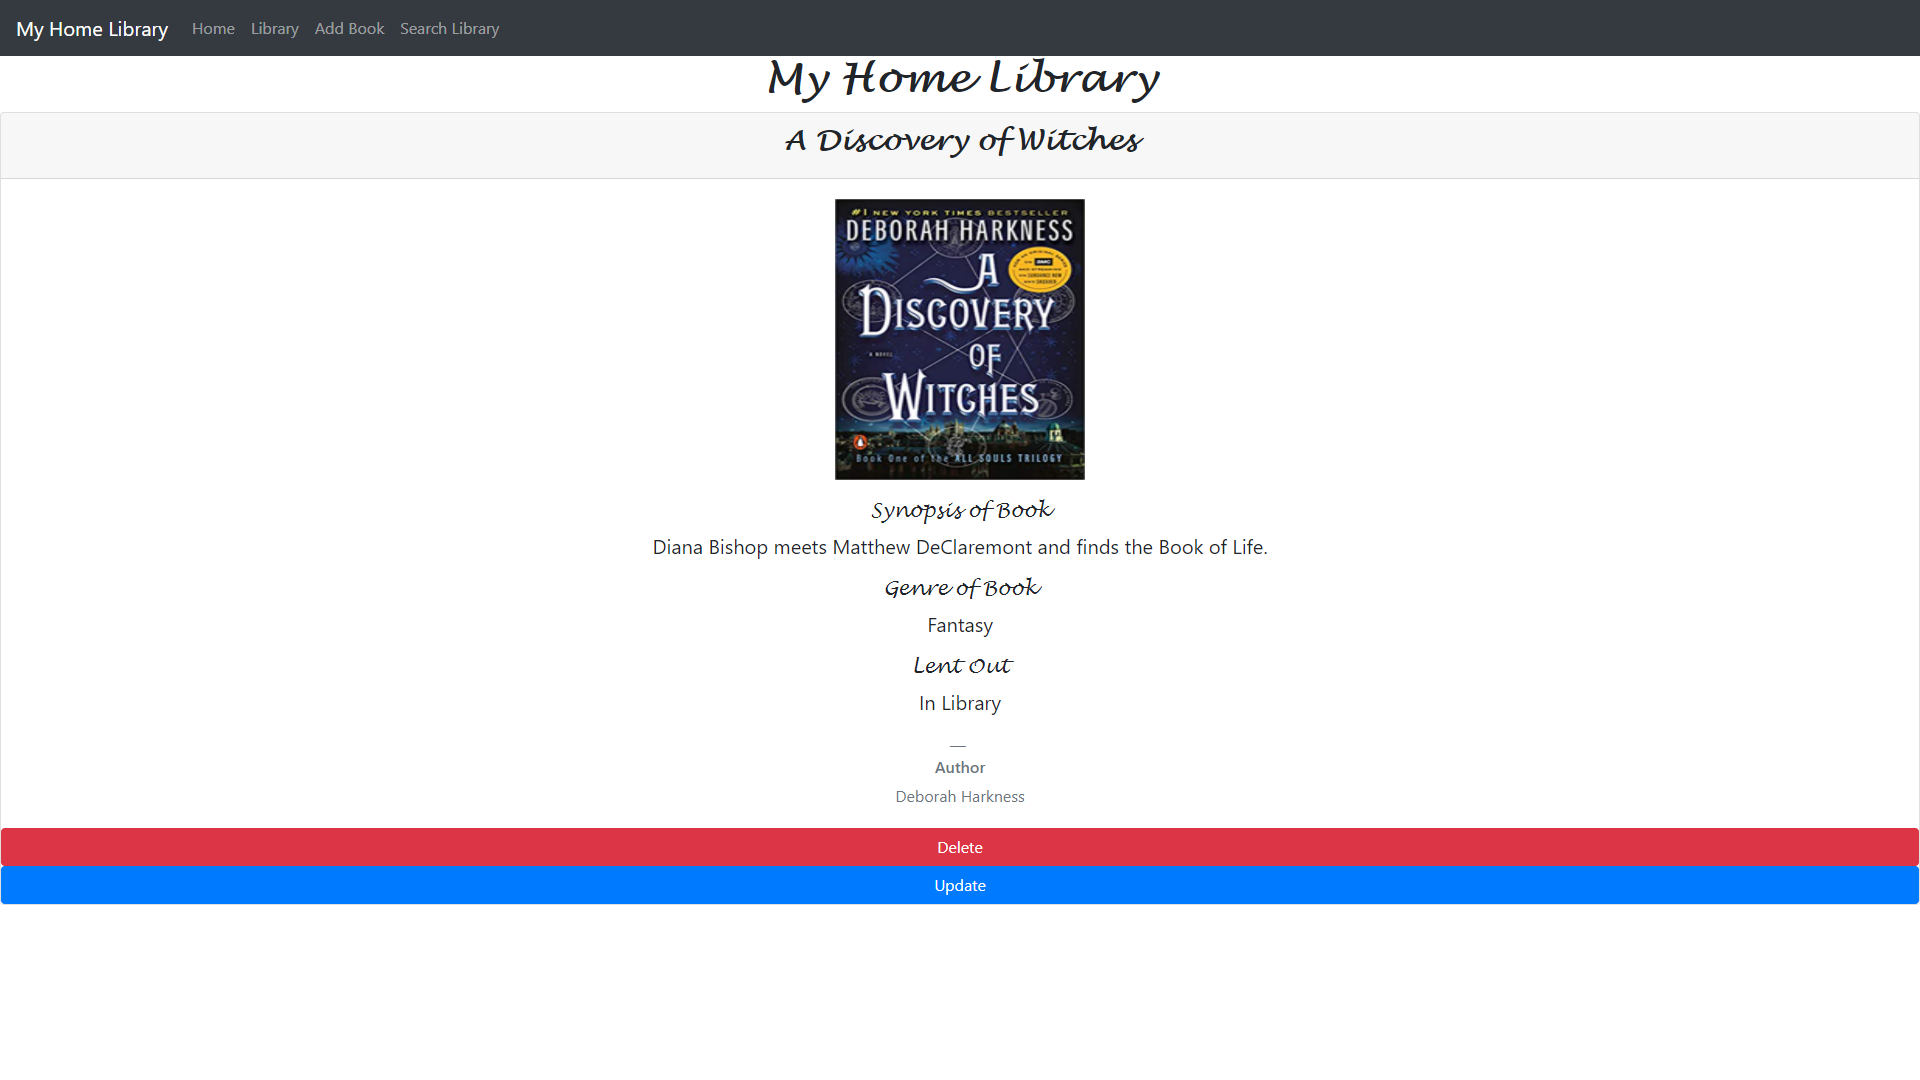
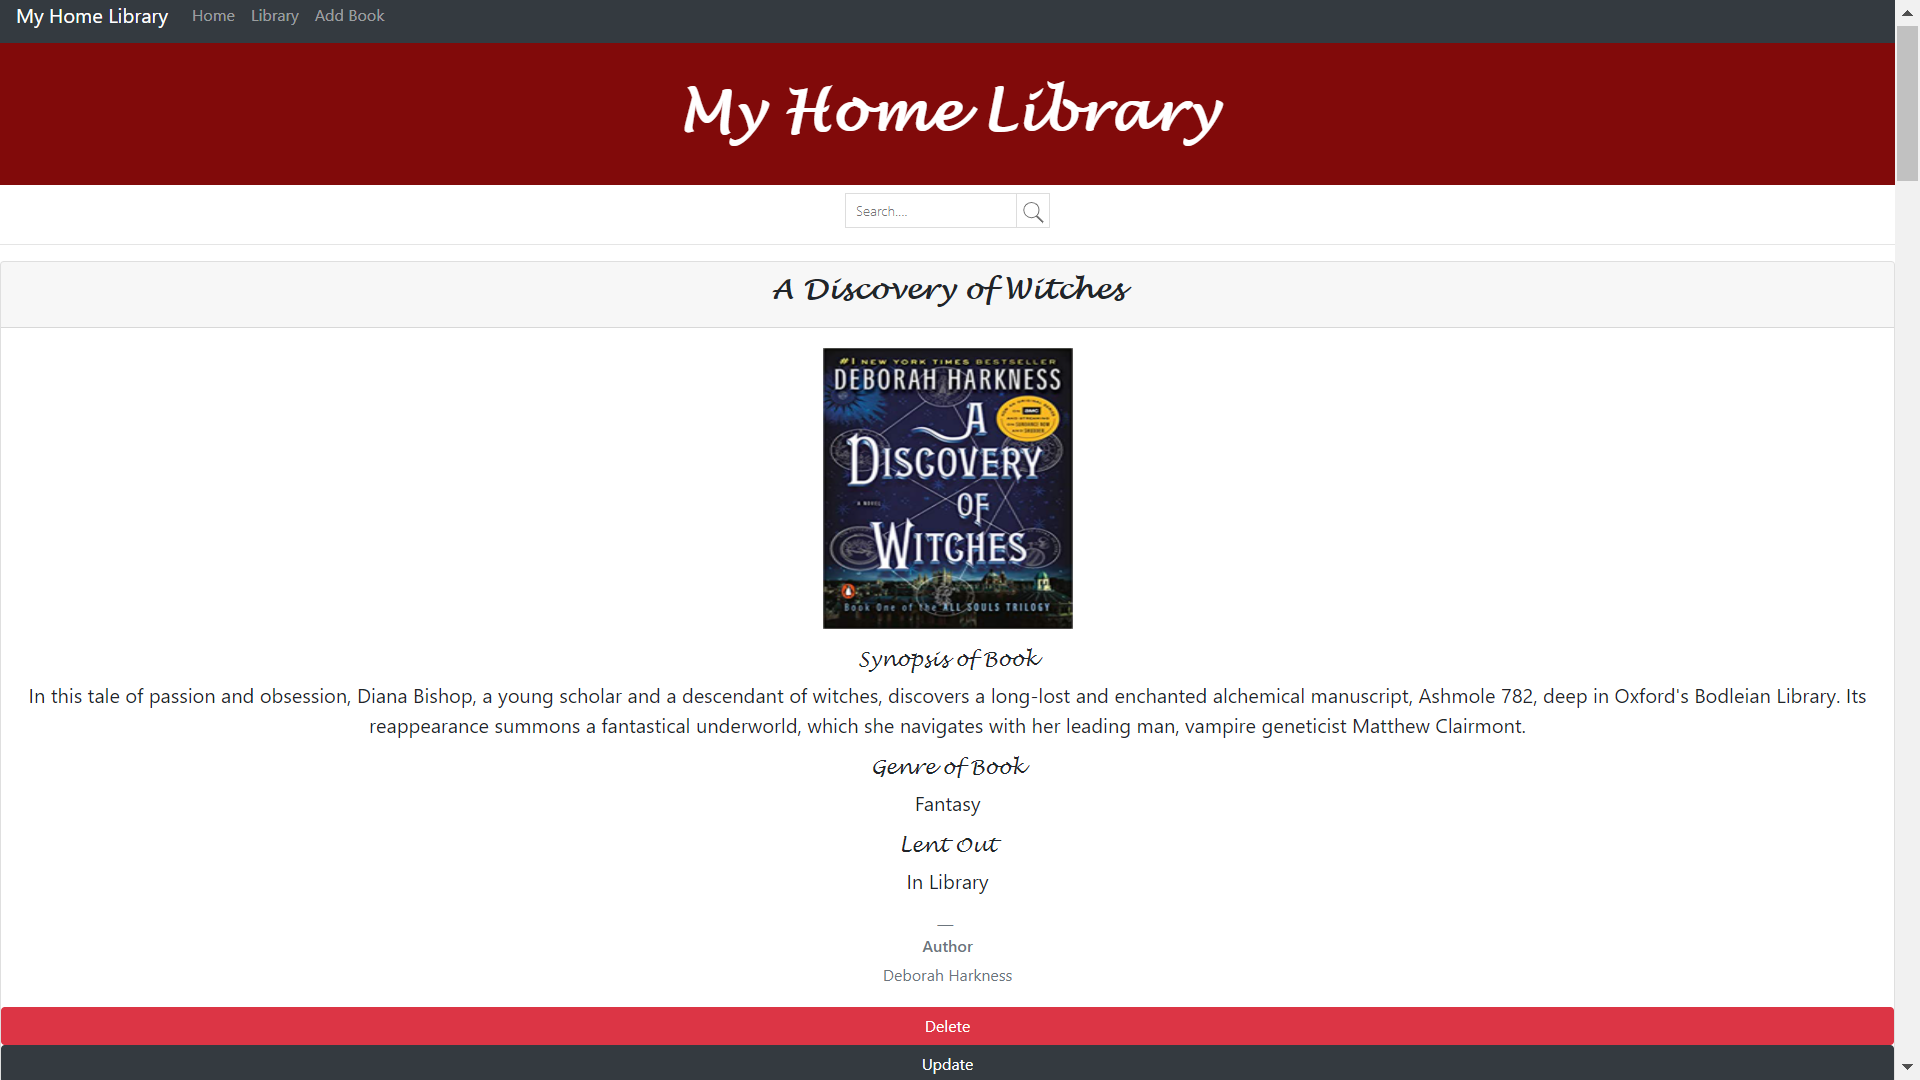
Page Images and Styling

diff --git a/src/components/library.js b/src/components/library.js
@@ -67,19 +67,20 @@ export class Library extends React.Component {
     //Method to display what is within
     render() {
         const filteredBooks = this.state.books.filter(book => {
-            return book.bookTitle.toLowerCase().includes(this.state.searchValue.toLowerCase())
+            return book.bookTitle.toLowerCase().includes(this.state.searchValue.toLowerCase()) +  book.author.toLowerCase().includes(this.state.searchValue.toLowerCase())
         })
         return (
             //Contents on display in the Component
             <div className="Library">
+                
                 <h1>My Home Library</h1>
-                <hr></hr>
+                
                 <SearchField
                     value={this.state.searchValue}
                     placeholder= "Search...."
-                    OnSearchClick={this.OnSearchClick}
+                    //OnSearch={this.OnSearchClick}
                     onEnter={this.OnSearchClick}
-                />
+                ></SearchField>
                 <hr></hr>
                  {/*Books Component Diaplay and Reload*/}
                 <Books books={filteredBooks} ReloadData={this.ReloadData}></Books>

diff --git a/src/components/addBook.js b/src/components/addBook.js
@@ -140,13 +140,13 @@ export class AddBook extends React.Component {
                     {/*Add Book Cover Image*/}
                     <div className="form-group">
                         <label>Add Book Cover Image: </label>
-                        <textarea className='form-control' value={this.state.CoverImg} onChange={this.onChangeCoverImg}></textarea>
+                        <textarea type="text" className='form-control' value={this.state.CoverImg} onChange={this.onChangeCoverImg} ></textarea>
                     </div>
 
                     {/*Add Lent Out*/}
                     <div className="form-group">
                         <label>Lent Out To: </label>
-                        <input type='text' className='form-control' value={this.state.Lent} onChange={this.onChangeLent} placeholder="Example: In Library"></input>
+                        <input type='text' className='form-control' value={this.state.Lent} onChange={this.onChangeLent} placeholder="Example: In Library or Neighbour "></input>
                     </div>
 
                     {/*Button Adding Form Contents to State */}

diff --git a/src/style/style.css b/src/style/style.css
@@ -37,11 +37,18 @@
 .BookCard h3, h5{
     font-family:  "Lucida Handwriting", "Courier New", monospace;
     font-weight: 700;
+    
 }
+
 
 .Library h1{
     font-family:  "Lucida Handwriting", "Courier New", monospace;
+    font-size: 55px;
     font-weight: bold;
+    background-color: rgb(129, 10, 10);
+    color: rgb(255, 255, 255);
+    padding-top: 2%;
+    padding-bottom: 2%;
 }
 
 .CoverImg{
@@ -60,8 +67,10 @@
 .AddBook h1{
     font-family:  "Lucida Handwriting", "Courier New", monospace;
     background-color: rgba(252, 252, 252, 0.514);
+    font-size: 45px;
     font-weight: bold;
     padding-top: 10px;
+    color: rgb(129, 10, 10);
 }
 .AddForm{
     background-color: rgba(252, 252, 252, 0.514);
@@ -69,7 +78,7 @@
     padding-right: 3%;
     padding-bottom: 5%;
     font-weight: bold;
-    font-size: larger;
+    font-size: 23px;
 }
 
 

diff --git a/src/components/bookProfile.js b/src/components/bookProfile.js
@@ -39,7 +39,7 @@ export class BookProfile extends React.Component {
                 {/*The content of each bookProfile is desplayed as requested, BookTitle, Author and Genre */}
                 <Card className="BookCard">
                     {/*Card Holds Title in the Card Header. Year and Poster are held in the Card Body  */}
-                    <Card.Header><h3>{this.props.book.bookTitle}</h3></Card.Header>
+                    <Card.Header className="bTitle"><h3>{this.props.book.bookTitle}</h3></Card.Header>
                     <Card.Body>
                         <blockquote className="blockquote mb-0">
                             <img className="CoverImg" src={this.props.book.coverImg} width="250" height="300" alt="Book Cover"/>

diff --git a/src/components/updateBook.js b/src/components/updateBook.js
@@ -177,7 +177,7 @@ export class UpdateBook extends React.Component {
 
                 {/*Button Updating Form Contents to State */}
                 <div>
-                    <input type="submit" value="Update Book" className="btn btn-primary"></input>
+                    <input type="submit" value="Update Book" className="btn btn-danger btn-lg"></input>
                 </div>
             </form>
             </div>

diff --git a/src/components/index.js b/src/components/index.js
@@ -16,7 +16,7 @@ export class Index extends React.Component {
                     <Container>
                         <h1>Welcome </h1>
                         <h3>to the</h3>
-                        <h1> Home Library</h1>
+                        <h1>My Home Library</h1>
                         <hr></hr>
                         <p>
                             Where you can track all the Books in your Library.
